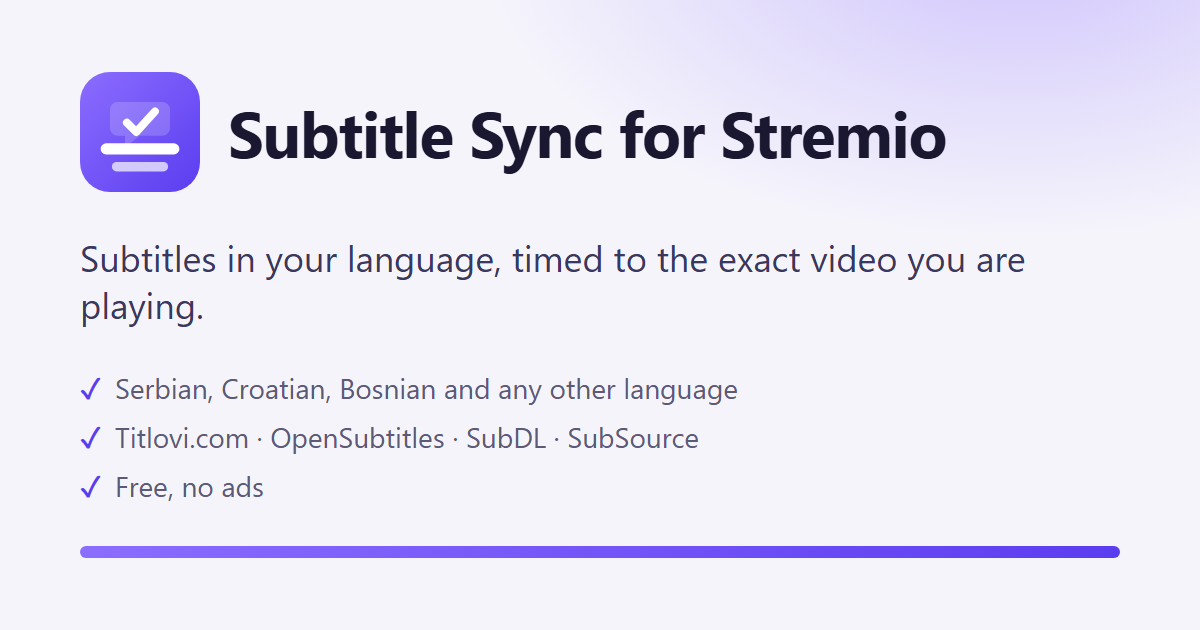
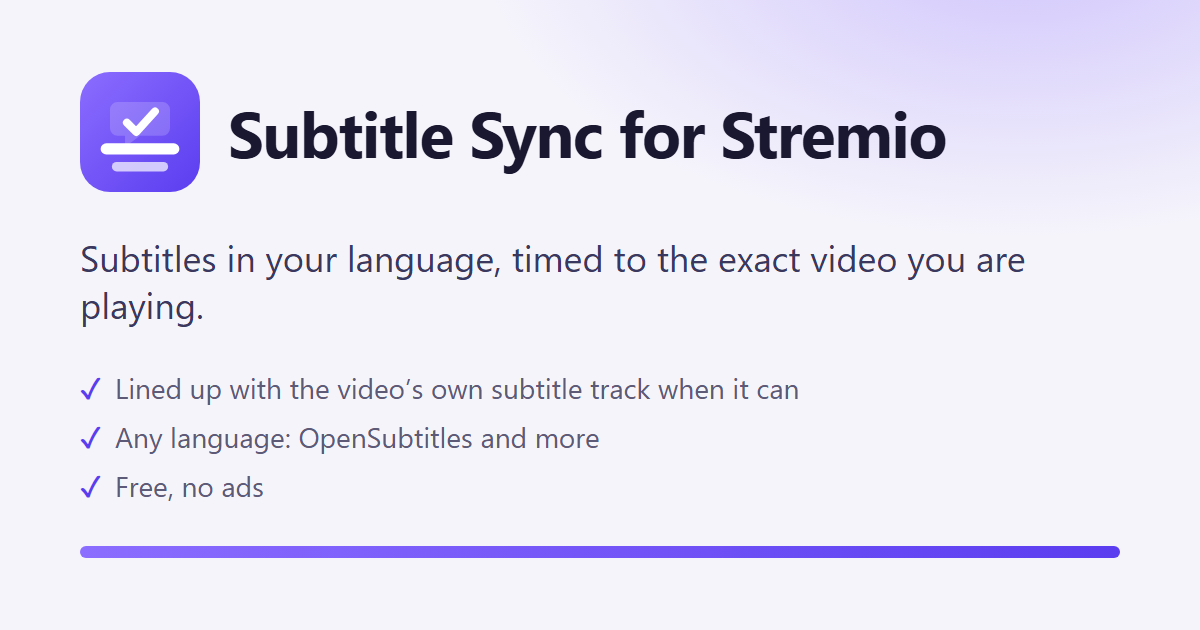
README: the one sentence beside the name, what it does not do, the apps page; preview picture refreshed

Changed region(s): [[0.0925, 0.6635, 0.5858, 0.7238], [0.0925, 0.6032, 0.6783, 0.6333]]

diff --git a/README.md b/README.md
@@ -2,10 +2,10 @@
 
 **Subtitles in your language, timed to the exact video you are playing.**
 
-Subtitle Sync for Stremio is a free Stremio addon. It finds subtitles in Serbian, Croatian,
-Bosnian or any other language on Titlovi.com, OpenSubtitles, SubDL, SubSource and Subs.ro, and lines
-them up with the exact video you are playing, before the subtitle menu opens. The one that
-lines up goes on top of the menu.
+Subtitle Sync for Stremio finds subtitles in your language and times them to the exact file you are
+playing, using the video's own subtitle track when it can. It is a free Stremio addon: subtitles come
+from OpenSubtitles, and from Titlovi.com, SubDL, SubSource and Subs.ro if you add them, and are lined
+up before the subtitle menu opens. The one that lines up goes on top of the menu.
 
 **Set it up: https://subtitlesync.stream** (English) · **https://subtitlesync.stream/sr/** (srpski)
 
@@ -46,10 +46,14 @@ your video, all of them are still shown, so you can try another by eye.
 
 ## What it does not do
 
-- It never hosts or links videos. It handles subtitles only.
+- It never hosts, finds or links videos. It handles subtitles only.
+- It never reads your files on Real-Debrid, AllDebrid, Premiumize or Debrid-Link: their rules forbid
+  it. With those services the timing comes from OpenSubtitles.
+- It needs your own free OpenSubtitles account (an API key and your login).
+- There is nothing to host or install on a computer: you add one link to Stremio.
 - It does not translate subtitles. It finds ones people wrote in your language and fixes their timing.
 - It cannot re-time a subtitle when there is nothing to compare it with; the menu then says so.
-- It cannot help in an app that tells subtitle addons nothing about the video file (no name, size or fingerprint). Stremio sends them on every device and Nuvio’s TV app sends the fingerprint (its phone app sends nothing); in an app that sends nothing, every subtitle comes untimed and the list says so. Only that app's developers can change it.
+- It cannot help in an app that tells subtitle addons nothing about the video file (no name, size or fingerprint). Stremio sends them on every device and Nuvio’s TV app sends the fingerprint (its phone app sends nothing); in an app that sends nothing, every subtitle comes untimed and the list says so. Only that app's developers can change it. Details: [which apps get synced subtitles](https://subtitlesync.stream/stremio-apps-synced-subtitles).
 
 ## Setting it up
 
